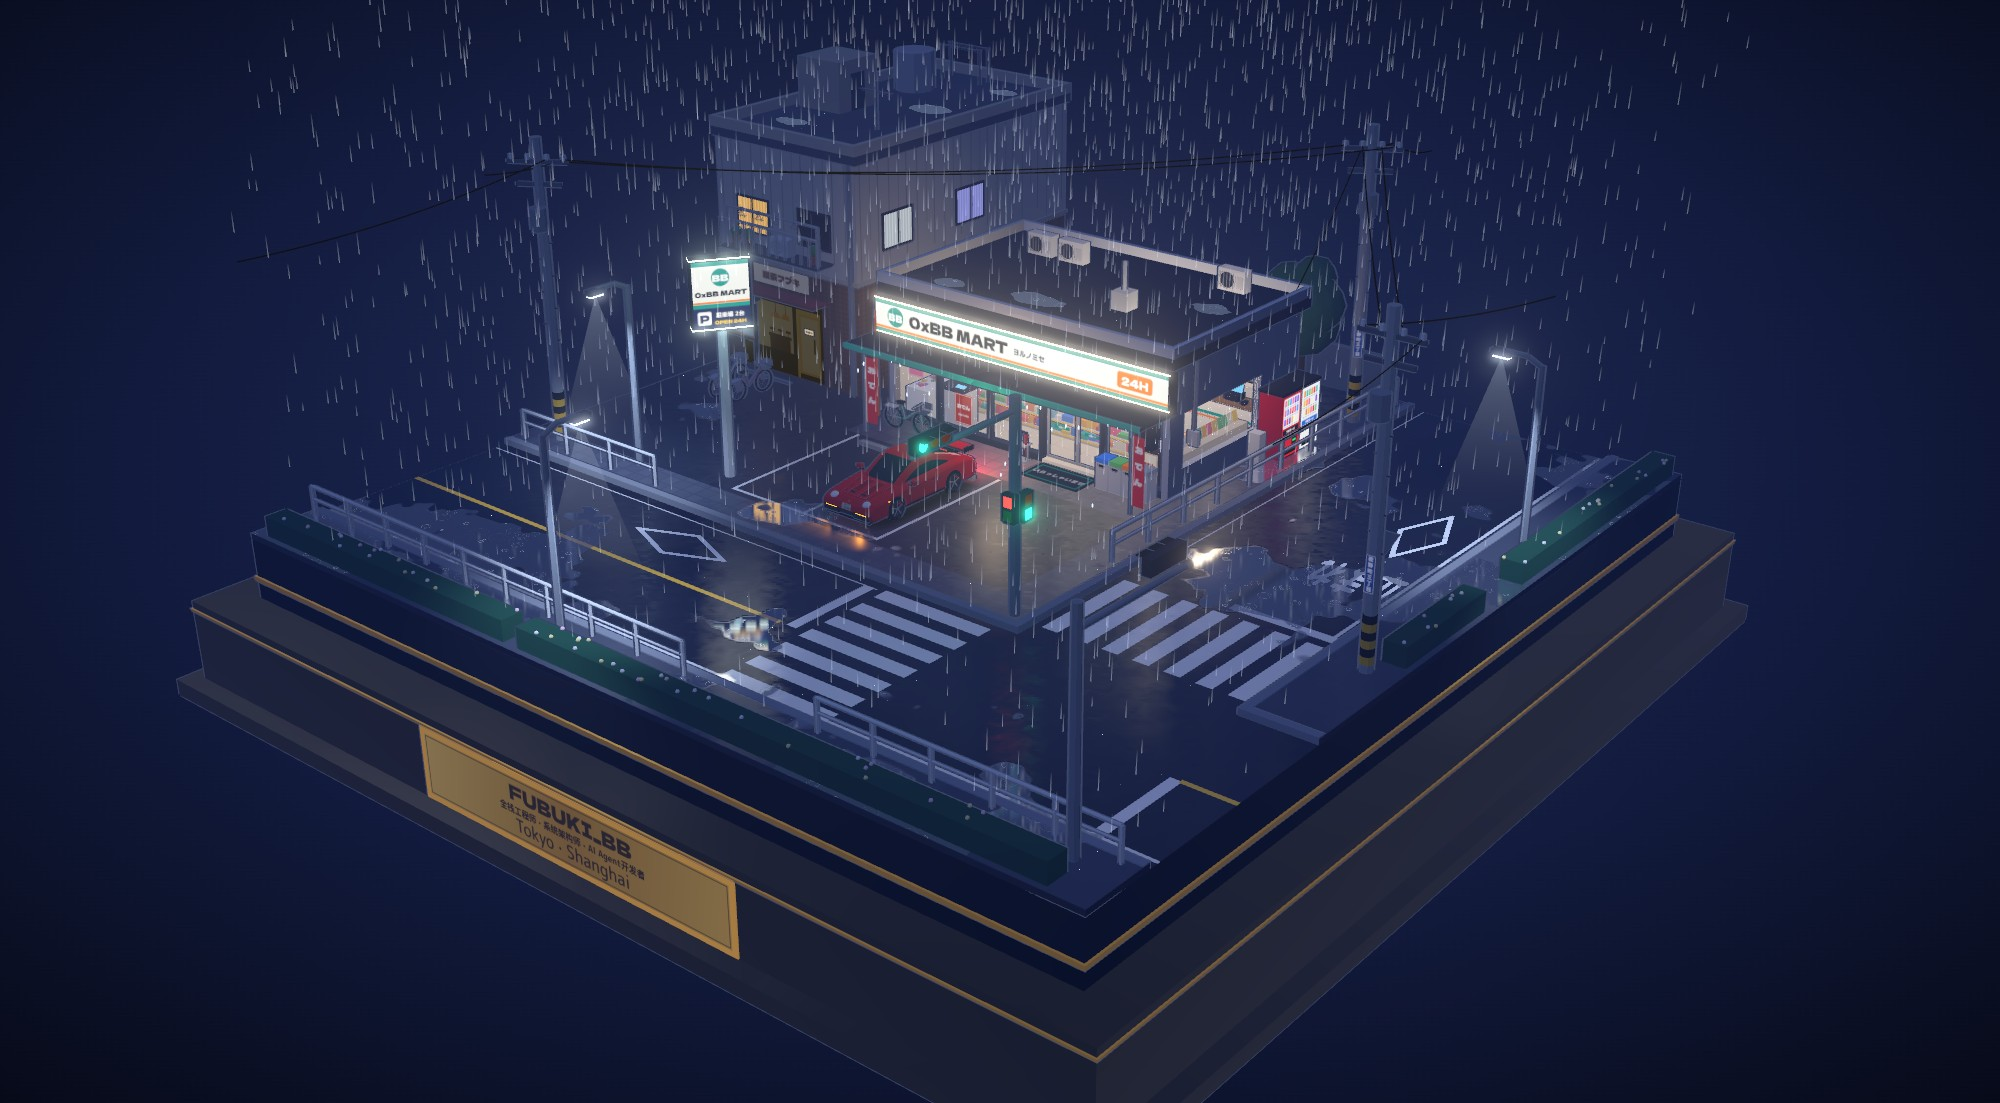
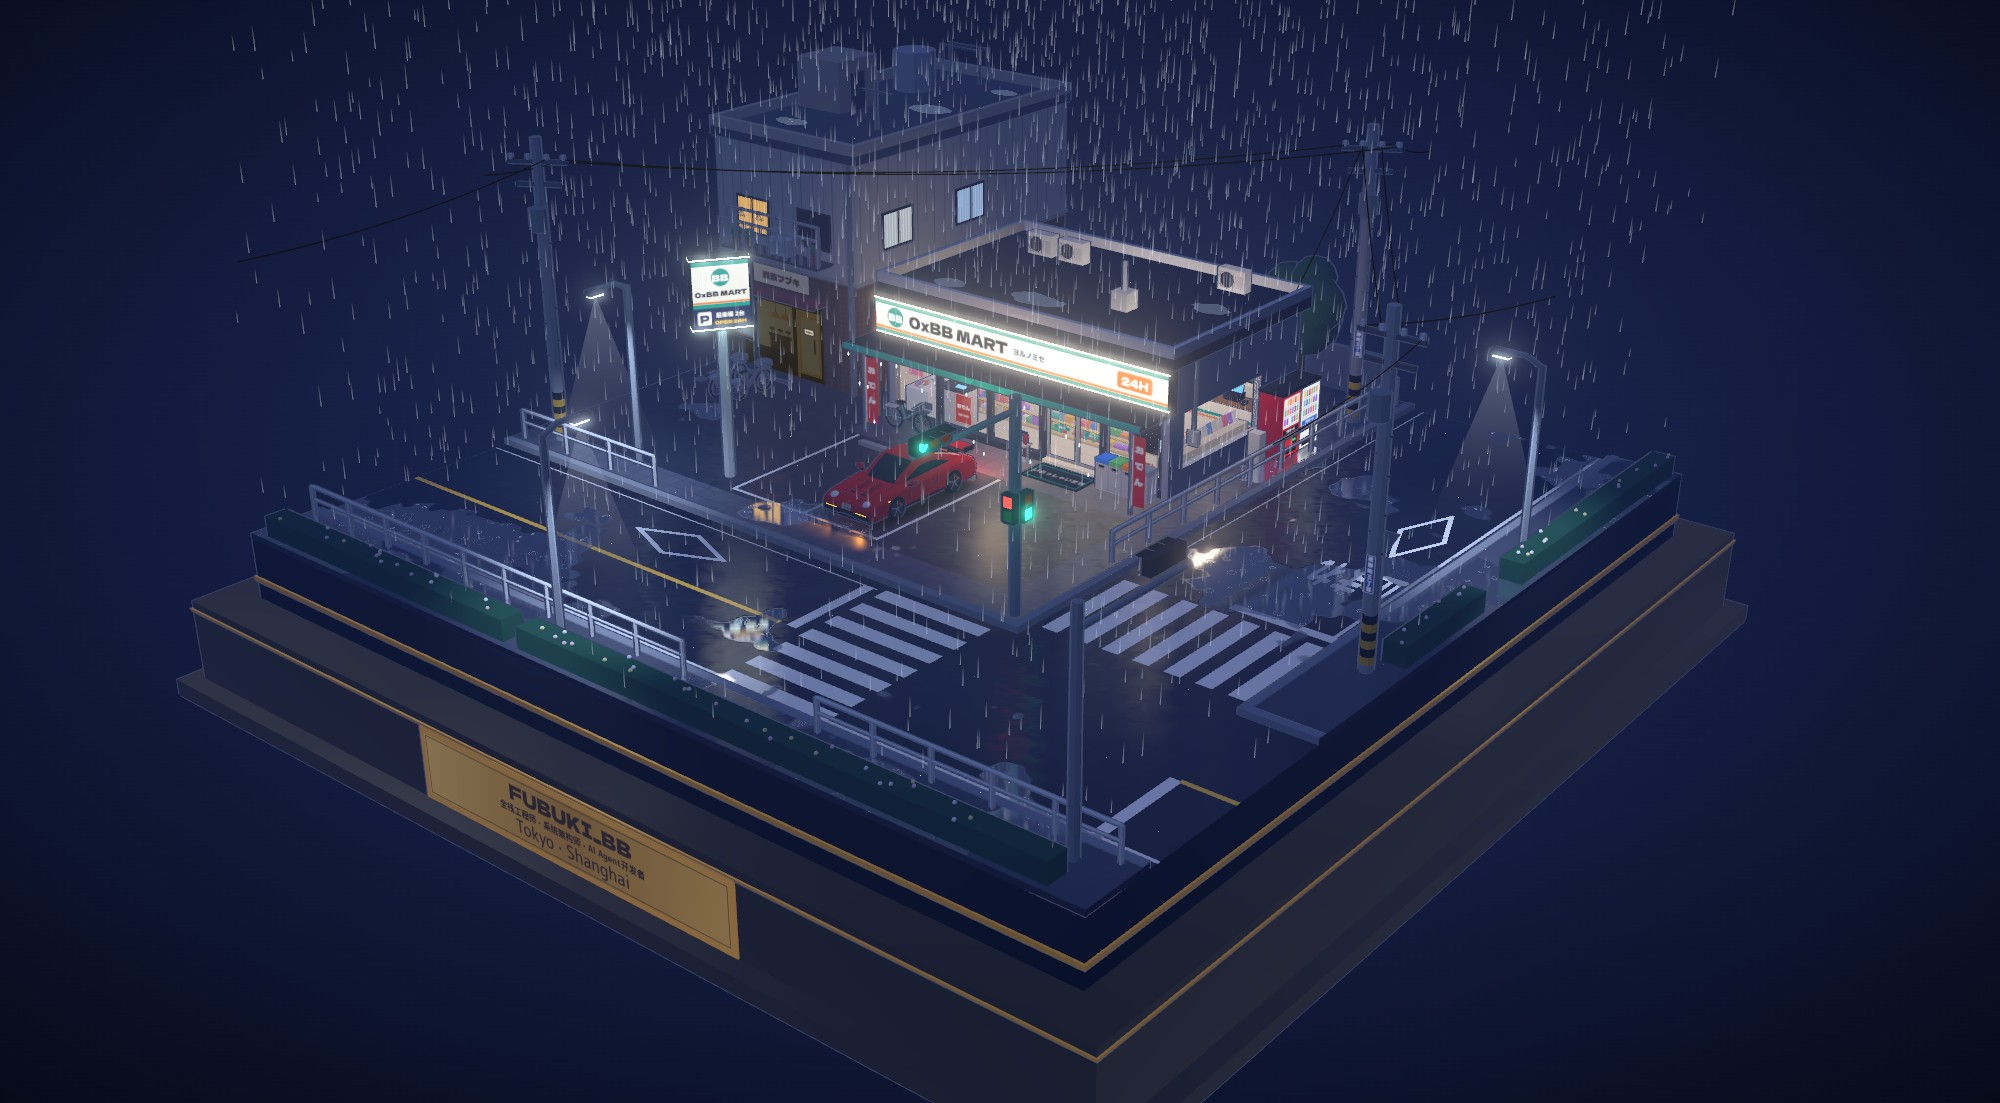
尾灯面光源亮度减半，预览图同步更新

diff --git a/diorama/car.ts b/diorama/car.ts
@@ -284,7 +284,7 @@ export function buildCar(): CarBuild {
     }
   }
   RectAreaLightUniformsLib.init();
-  const tailLight = new THREE.RectAreaLight('#ff2a3d', 900, 1.28, 0.06);
+  const tailLight = new THREE.RectAreaLight('#ff2a3d', 450, 1.28, 0.06);
   tailLight.position.set(-2.3, 0.69, 0);
   tailLight.rotation.order = 'YXZ';
   tailLight.rotation.set(-0.45, Math.PI / 2, 0);
